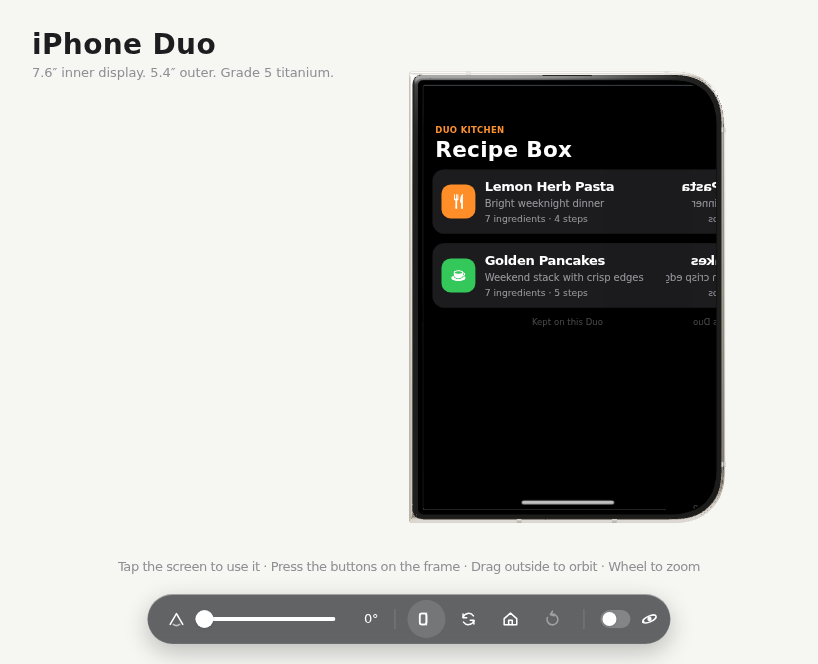
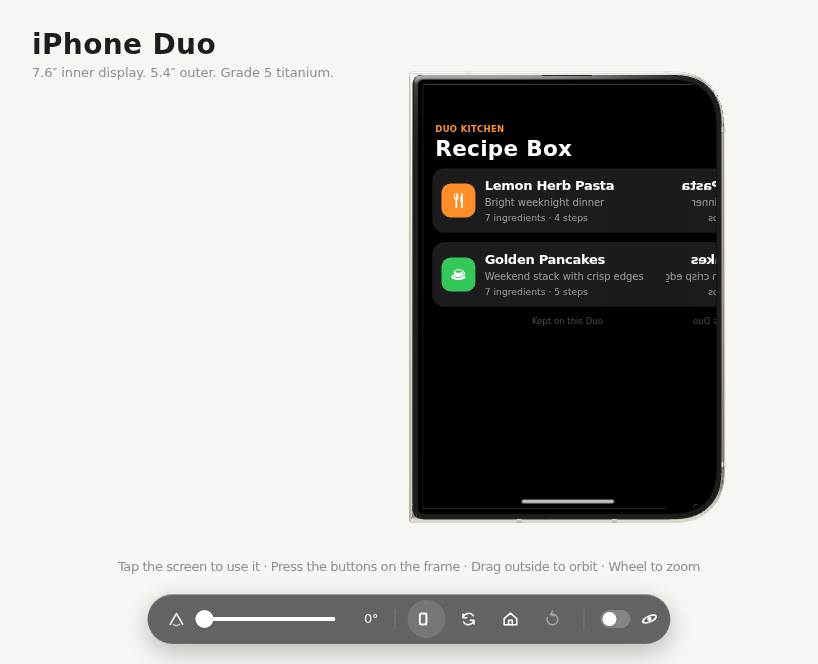
community(recipe-box): polish hierarchy, live step and row taps
- Whole ingredient rows toggle via real labels, eased by shared.select
- Current cooking step wears a filled number pill and tinted row
- Cards lift with shadow.card, shared.press and a staggered rise
- Page and hero swaps ride shared.swap; kit animations replace bespoke
  keyframes so reduced-motion and easing stay consistent
- Fresh inner/cover screenshots from the running simulator

diff --git a/community-apps/recipe-box/main.tsx b/community-apps/recipe-box/main.tsx
@@ -1,7 +1,7 @@
 import { os } from '@doan-labs/duo-sdk'
 import { useKV } from '@doan-labs/duo-sdk/react.ts'
-import { Button, Checkbox, IconButton, Push, Sym, useWide } from '@doan-labs/duo-uikit'
-import { dark } from '@doan-labs/duo-uikit/styles.ts'
+import { animations, Button, Checkbox, IconButton, Push, Sym, useWide } from '@doan-labs/duo-uikit'
+import { dark, delay, shared } from '@doan-labs/duo-uikit/styles.ts'
 import { colors } from '@doan-labs/duo-uikit/tokens.stylex.ts'
 import * as stylex from '@stylexjs/stylex'
 import { useCallback, useEffect, useRef, useState } from 'react'
@@ -158,16 +158,20 @@ function RecipeBox() {
           {rowKeys(recipe.ingredients).map((rowKey, index) => {
             const line = recipe.ingredients[index]!
             const checked = state.checked.includes(index)
+            const boxId = `ing-${recipe.id}-${index}`
             return (
-              <li key={rowKey} {...stylex.props(styles.row)}>
-                <Checkbox
-                  tint={colors.orangeDark}
-                  checked={checked}
-                  onChange={() => toggleCheck(recipe.id, index)}
-                  aria-label={line}
-                  xstyle={checked ? styles.tickDone : undefined}
-                />
-                <span {...stylex.props(styles.checkText, checked && styles.checkDone)}>{line}</span>
+              <li key={rowKey} {...stylex.props(styles.row, shared.select)}>
+                <label htmlFor={boxId} {...stylex.props(styles.rowLabel)}>
+                  <Checkbox
+                    id={boxId}
+                    tint={colors.orangeDark}
+                    checked={checked}
+                    onChange={() => toggleCheck(recipe.id, index)}
+                    aria-label={line}
+                    xstyle={checked ? styles.tickDone : undefined}
+                  />
+                  <span {...stylex.props(styles.checkText, checked && styles.checkDone)}>{line}</span>
+                </label>
               </li>
             )
           })}
@@ -187,17 +191,23 @@ function RecipeBox() {
         <ol {...stylex.props(styles.rows)}>
           {rowKeys(recipe.steps).map((rowKey, index) => {
             const line = recipe.steps[index]!
+            const here = index === current
             const row = (
               <>
-                <span {...stylex.props(styles.stepNum)}>{index + 1}</span>
-                <span {...stylex.props(styles.stepText, current !== null && index < current && styles.stepPast)}>
+                <span {...stylex.props(styles.stepNum, here && styles.stepNumNow)}>{index + 1}</span>
+                <span
+                  {...stylex.props(
+                    styles.stepText,
+                    here && styles.stepTextNow,
+                    current !== null && index < current && styles.stepPast
+                  )}
+                >
                   {line}
                 </span>
               </>
             )
-            const here = index === current
             return (
-              <li key={rowKey} {...stylex.props(styles.row, here && styles.stepNow)}>
+              <li key={rowKey} {...stylex.props(styles.row, interactive && shared.select, here && styles.stepNow)}>
                 {interactive ? (
                   <button
                     type="button"
@@ -241,12 +251,16 @@ function RecipeBox() {
           </div>
         ) : (
           <ul {...stylex.props(styles.rows, styles.grid, wide && styles.gridWide)}>
-            {recipes.map((recipe) => {
+            {recipes.map((recipe, index) => {
               const state = progressFor(progress, recipe.id)
               const cooking = state.step > 0 && recipe.steps.length > 0
               return (
-                <li key={recipe.id} {...stylex.props(styles.cardCell)}>
-                  <button type="button" onClick={() => openRecipe(recipe.id)} {...stylex.props(styles.card)}>
+                <li key={recipe.id} {...stylex.props(styles.cardCell, animations.rise, delay.ms(index * 40))}>
+                  <button
+                    type="button"
+                    onClick={() => openRecipe(recipe.id)}
+                    {...stylex.props(styles.card, shared.press)}
+                  >
                     <Tile id={recipe.id} />
                     <span {...stylex.props(styles.cardCopy)}>
                       <strong {...stylex.props(styles.cardName)}>{recipe.name}</strong>
@@ -278,7 +292,7 @@ function RecipeBox() {
     const state = progressFor(progress, recipe.id)
     const cooking = state.step > 0
     return (
-      <div {...stylex.props(styles.page, styles.swap)} key={`detail-${recipe.id}`}>
+      <div {...stylex.props(styles.page, shared.swap)} key={`detail-${recipe.id}`}>
         <header {...stylex.props(styles.hdr)}>
           <IconButton name="back" variant="plain" aria-label="Back" onClick={openList} />
           <h1 {...stylex.props(styles.pageTitle)}>{recipe.name}</h1>
@@ -317,7 +331,7 @@ function RecipeBox() {
               </div>
             </section>
           )}
-          <section {...stylex.props(styles.hero)}>
+          <section {...stylex.props(styles.hero, animations.rise)}>
             <div {...stylex.props(styles.heroTop)}>
               <Tile id={recipe.id} big />
               <div {...stylex.props(styles.cardCopy)}>
@@ -351,7 +365,7 @@ function RecipeBox() {
     const total = recipe.steps.length
     if (total === 0) {
       return (
-        <div {...stylex.props(styles.page, styles.swap)}>
+        <div {...stylex.props(styles.page, shared.swap)}>
           <header {...stylex.props(styles.hdr)}>
             <IconButton name="back" variant="plain" aria-label="Back" onClick={() => openRecipe(recipe.id)} />
             <h1 {...stylex.props(styles.pageTitle)}>Cooking</h1>
@@ -371,7 +385,7 @@ function RecipeBox() {
       openRecipe(recipe.id)
     }
     return (
-      <div {...stylex.props(styles.page, styles.swap)} key={`cook-${recipe.id}`}>
+      <div {...stylex.props(styles.page, shared.swap)} key={`cook-${recipe.id}`}>
         <header {...stylex.props(styles.hdr)}>
           <IconButton name="back" variant="plain" aria-label="Back" onClick={() => openRecipe(recipe.id)} />
           <h1 {...stylex.props(styles.pageTitle)}>Cooking</h1>

diff --git a/community-apps/recipe-box/styles.ts b/community-apps/recipe-box/styles.ts
@@ -4,7 +4,6 @@ import {
   easing,
   fonts,
   leading,
-  motion,
   radius,
   shadow,
   space,
@@ -17,14 +16,6 @@ import * as stylex from '@stylexjs/stylex'
 const reduce = '@media (prefers-reduced-motion: reduce)'
 
 // One-shot entrances may only touch transform and opacity.
-const cardIn = stylex.keyframes({
-  '0%': { opacity: 0, transform: 'translateY(10px) scale(.98)' },
-  '100%': { opacity: 1, transform: 'translateY(0) scale(1)' }
-})
-const swapIn = stylex.keyframes({
-  '0%': { opacity: 0 },
-  '100%': { opacity: 1 }
-})
 const tickPop = stylex.keyframes({
   '0%': { transform: 'scale(.8)' },
   '60%': { transform: 'scale(1.12)' },
@@ -119,16 +110,10 @@ export const styles = stylex.create({
     borderRadius: radius.xl,
     color: app.fg,
     backgroundColor: { default: app.surface, ':hover': app.elevated },
+    boxShadow: shadow.card,
     textAlign: 'start',
     cursor: 'pointer',
-    touchAction: 'manipulation',
-    transitionProperty: 'transform, background-color',
-    transitionDuration: `${motion.pressDuration}, .2s`,
-    transitionTimingFunction: easing.push,
-    transform: { default: 'scale(1)', ':active': motion.press },
-    animationName: { default: cardIn, [reduce]: 'none' },
-    animationDuration: '.34s',
-    animationFillMode: 'both'
+    touchAction: 'manipulation'
   },
   tile: {
     width: 44,
@@ -281,13 +266,23 @@ export const styles = stylex.create({
   row: {
     display: 'flex',
     alignItems: 'center',
-    gap: space.md,
     paddingBlock: space.sm,
     paddingInline: space.xs,
     borderBottomWidth: { default: 1, ':last-child': 0 },
     borderBottomStyle: 'solid',
     borderBottomColor: app.separator,
-    minWidth: 0
+    minWidth: 0,
+    borderRadius: radius.md
+  },
+  // The whole ingredient row is the label: one tap anywhere toggles the box.
+  rowLabel: {
+    display: 'flex',
+    alignItems: 'center',
+    gap: space.md,
+    width: '100%',
+    borderRadius: radius.md,
+    cursor: 'pointer',
+    touchAction: 'manipulation'
   },
   // A tappable step row: the li owns the hairline and padding, the button only
   // fills it, so :last-child keeps meaning the last row.
@@ -334,7 +329,11 @@ export const styles = stylex.create({
     lineHeight: leading.subheadline,
     letterSpacing: tracking.subheadline
   },
-  stepNow: { backgroundColor: app.fill3, borderRadius: radius.md },
+  // The live step row: filled number badge plus a tinted lift so the eye lands
+  // on it without scanning the list.
+  stepNow: { backgroundColor: app.fill2, borderRadius: radius.md },
+  stepNumNow: { backgroundColor: colors.orangeDark, color: colors.white, borderRadius: radius.pill },
+  stepTextNow: { fontWeight: weight.semibold },
   stepPast: { color: app.label3 },
   // Cook mode
   cookCard: {
@@ -408,11 +407,6 @@ export const styles = stylex.create({
   actionGrow: { flexGrow: 1, minWidth: 0 },
   saveButton: { width: '100%' },
   danger: { color: colors.redDark },
-  swap: {
-    animationName: { default: swapIn, [reduce]: 'none' },
-    animationDuration: '.22s',
-    animationFillMode: 'both'
-  },
   tickDone: {
     animationName: { default: tickPop, [reduce]: 'none' },
     animationDuration: '.25s',

diff --git a/community-apps/recipe-box/editor.tsx b/community-apps/recipe-box/editor.tsx
@@ -1,4 +1,5 @@
 import { Button, IconButton, TextField } from '@doan-labs/duo-uikit'
+import { shared } from '@doan-labs/duo-uikit/styles.ts'
 import * as stylex from '@stylexjs/stylex'
 import { useState } from 'react'
 import type { Draft } from './recipes.ts'
@@ -100,7 +101,7 @@ export function Editor({ draft, recipeId, wide, onDraft, onSave, onCancel, onDel
   )
 
   return (
-    <div {...stylex.props(styles.page, styles.swap)}>
+    <div {...stylex.props(styles.page, shared.swap)}>
       <header {...stylex.props(styles.hdr)}>
         <IconButton name="back" variant="plain" aria-label="Back" onClick={onCancel} />
         <h1 {...stylex.props(styles.pageTitle)}>{recipeId ? 'Edit recipe' : 'New recipe'}</h1>
